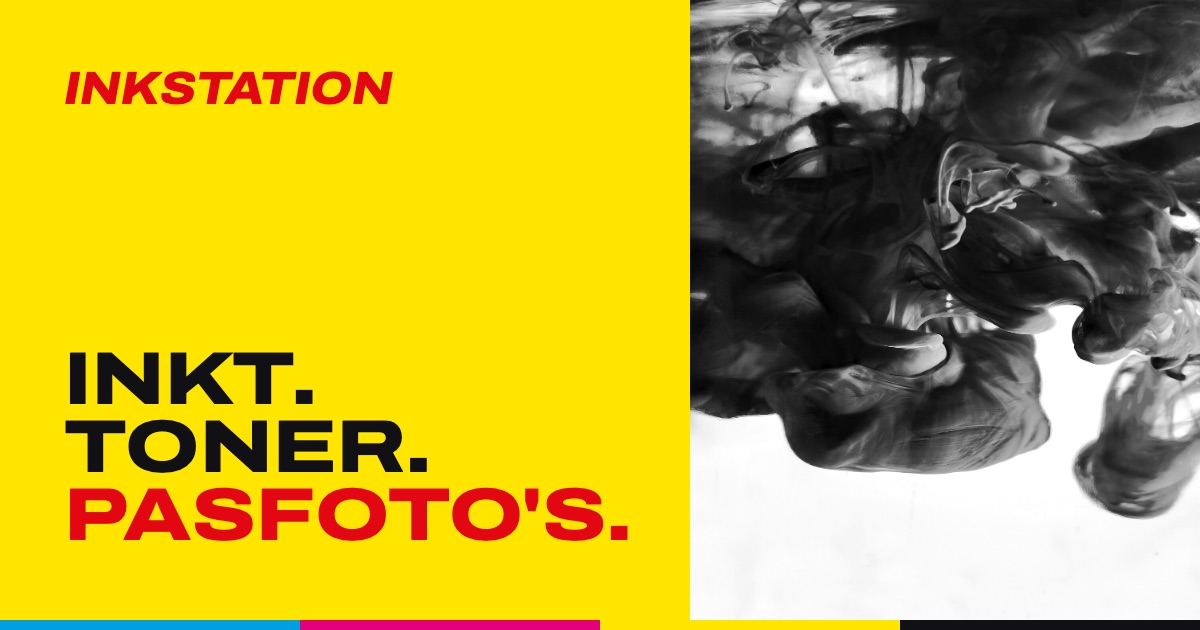
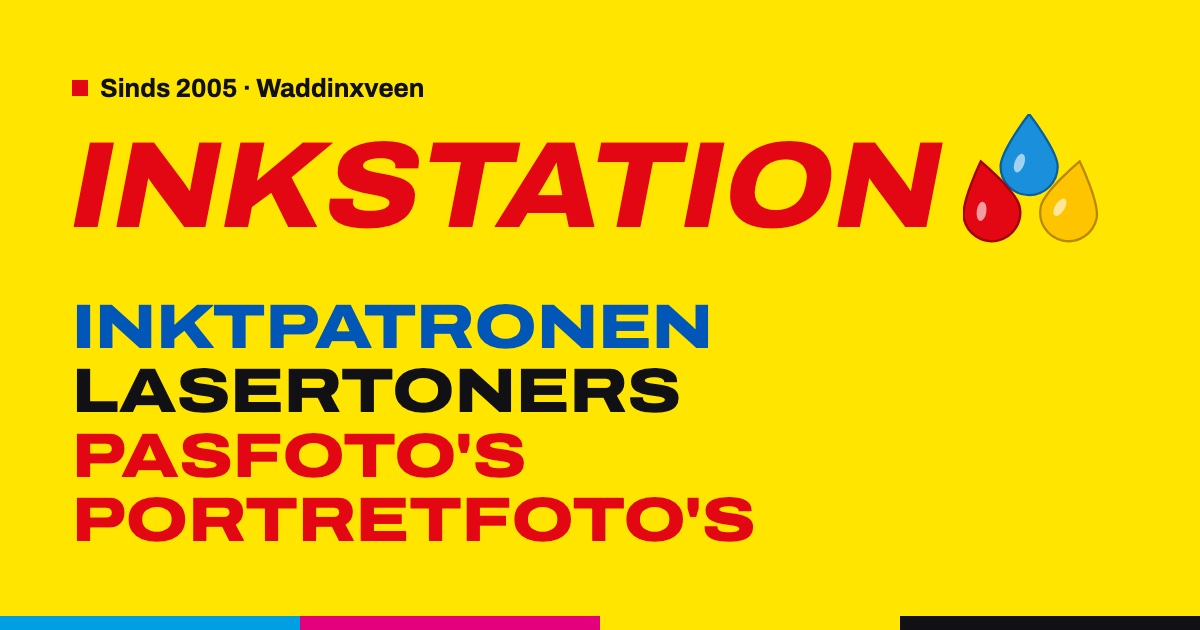
Inkstation: feedback Rens ronde 2 (grote naam met druppels, productgroepen in kleur, lasertoner, Canon-foto, rijbewijs, u-vorm)

diff --git a/inkstation/index.html b/inkstation/index.html
@@ -5,19 +5,19 @@
 <meta name="viewport" content="width=device-width, initial-scale=1">
 <!-- Concept preview: remove noindex, swap og:url/og:image to the real domain and add a canonical once this goes live on Inkstation's own domain -->
 <meta name="robots" content="noindex, nofollow">
-<title>Inkstation Waddinxveen · Inkt, toner, pasfoto's en meer</title>
+<title>Inkstation Waddinxveen · Inktpatronen, lasertoners, pasfoto's en meer</title>
 <meta name="description" content="Inktpatronen en lasertoners voor een scherpe prijs, refill van Canon en HP, pasfoto's en portretten, rijbewijs digitaal verlengen en video digitaliseren. Inkstation, sinds 2005 in de Passage in Waddinxveen.">
 <meta name="theme-color" content="#ffe500">
 <meta property="og:type" content="website">
 <meta property="og:locale" content="nl_NL">
 <meta property="og:site_name" content="Inkstation Waddinxveen">
-<meta property="og:title" content="Inkstation Waddinxveen · Inkt, toner en pasfoto's">
-<meta property="og:description" content="Scherp geprijsde inkt en toner, refill, pasfoto's en portretten, rijbewijs verlengen en video digitaliseren. Sinds 2005 in de Passage, Waddinxveen.">
+<meta property="og:title" content="Inkstation Waddinxveen · Inkt, lasertoners en pasfoto's">
+<meta property="og:description" content="Scherp geprijsde inkt en lasertoners, refill, pasfoto's en portretten, rijbewijs verlengen en video digitaliseren. Sinds 2005 in de Passage, Waddinxveen.">
 <meta property="og:url" content="https://itzjustme1.github.io/voorbeeldsites/inkstation/">
 <meta property="og:image" content="https://itzjustme1.github.io/voorbeeldsites/inkstation/og-image.jpg">
 <meta property="og:image:width" content="1200">
 <meta property="og:image:height" content="630">
-<meta property="og:image:alt" content="Inkstation: inkt, toner en pasfoto's, op het gele bord van de winkel.">
+<meta property="og:image:alt" content="Inkstation: inktpatronen, lasertoners, pasfoto's en portretfoto's, op het gele bord van de winkel.">
 <meta name="twitter:card" content="summary_large_image">
 <link rel="icon" href="favicon.svg" type="image/svg+xml">
 <link rel="apple-touch-icon" href="apple-touch-icon.png">
@@ -30,7 +30,7 @@
     document.documentElement.setAttribute("data-kleur", k || "huisstijl");
   })();
 </script>
-<link rel="stylesheet" href="styles.css?v=30">
+<link rel="stylesheet" href="styles.css?v=32">
 <script src="script.js?v=17" defer></script>
 <!-- Structured data so Google can show address, phone and opening hours. Hours as listed on Google Maps (7 Nov 2026). -->
 <script type="application/ld+json">
@@ -62,23 +62,27 @@
   Photos: Wikimedia Commons, stored in img/ as black-and-white WebP (grayscale + 10% contrast baked in, 800/1280/1800 wide).
   - Moving_Water_and_Ink_(Unsplash).jpg, Adrien Ledoux, CC0
   - Canon_EOS_R5_Mark_II_(front,_no_body_cap).jpg, D. Benjamin Miller, CC0
-  - Car_interior_during_the_daytime_(Unsplash).jpg, Pietro De Grandi, CC0
-  - HP_Inkjet_Black_Print_Cartridge_21.jpg, MarcoTangerino, public domain
+  - Canon_PG-810_CL-811_ink_cartridge.JPG, eFilm, CC BY-SA 4.0 (same Canon FINE cartridge type as the 545)
   - Super-8-mm-film-on-a-spool-02.jpg, CEphoto, Uwe Aranas, CC BY-SA 3.0
+  img/rijbewijs.svg is drawn for this site: a generic licence card, no real document or person.
 -->
 </head>
 <body>
 <a class="skip" href="#main">Naar de inhoud</a>
+<svg width="0" height="0" style="position:absolute" aria-hidden="true">
+  <!-- The three ink drops from the shop window (red, blue, yellow), drawn once and reused next to every INKSTATION -->
+  <symbol id="drops" viewBox="0 0 62 60"><g transform="translate(17 0) rotate(0 13 24) scale(2.6)"><path d="M5 0C5 0 0 6.4 0 9.2a5 5 0 0 0 10 0C10 6.4 5 0 5 0Z" fill="#1a8fdc" stroke="#0a5f9e" stroke-width=".4"/><ellipse cx="3.3" cy="8.6" rx=".85" ry="1.7" transform="rotate(20 3.3 8.6)" fill="#fff" opacity=".6"/></g><g transform="translate(0 21) rotate(-12 13 24) scale(2.6)"><path d="M5 0C5 0 0 6.4 0 9.2a5 5 0 0 0 10 0C10 6.4 5 0 5 0Z" fill="#e30613" stroke="#9e030c" stroke-width=".4"/><ellipse cx="3.3" cy="8.6" rx=".85" ry="1.7" transform="rotate(20 3.3 8.6)" fill="#fff" opacity=".6"/></g><g transform="translate(35 21) rotate(12 13 24) scale(2.6)"><path d="M5 0C5 0 0 6.4 0 9.2a5 5 0 0 0 10 0C10 6.4 5 0 5 0Z" fill="#ffc400" stroke="#b88600" stroke-width=".4"/><ellipse cx="3.3" cy="8.6" rx=".85" ry="1.7" transform="rotate(20 3.3 8.6)" fill="#fff" opacity=".6"/></g></symbol>
+</svg>
 
 <div class="concept" role="note">Voorbeeldontwerp door Valentijn de Grijff. Dit is nog niet de echte website van Inkstation.</div>
 
 <header class="site-head">
   <div class="wrap bar">
     <a class="logo" href="#top" aria-label="Inkstation, naar boven">
-      <span aria-hidden="true">INKSTATION</span>
+      <span aria-hidden="true">INKSTATION</span><svg class="drops" aria-hidden="true"><use href="#drops"/></svg>
     </a>
     <nav class="nav" id="nav" aria-label="Hoofdmenu">
-      <a href="#inkt">Inkt &amp; toner</a>
+      <a href="#inkt">Inkt &amp; lasertoner</a>
       <a href="#pasfoto">Pasfoto's</a>
       <a href="#rijbewijs">Rijbewijs</a>
       <a href="#video">Digitaliseren</a>
@@ -91,15 +95,20 @@
 
 <main id="main">
   <section class="hero" id="top" aria-labelledby="hero-title">
+    <!-- The name runs the full width, like the sign above the shop window -->
+    <div class="hero-sign">
+      <p class="where">Sinds 2005</p>
+      <h1 class="hero-mark" id="hero-title"><span class="mark-word">Inkstation</span><svg class="drops" aria-hidden="true"><use href="#drops"/></svg></h1>
+    </div>
     <div class="hero-grid">
       <div class="hero-copy">
-        <p class="where">Sinds 2005 · Passage 63 · Waddinxveen</p>
-        <h1 class="display" id="hero-title">
-          <span class="line" style="--i:0">Inkt.</span>
-          <span class="line" style="--i:1">Toner.</span>
-          <span class="line" style="--i:2">Pasfoto's.</span>
-        </h1>
-        <p class="lead">Inktpatronen en lasertoners voor een hele scherpe prijs, bijna altijd goedkoper dan de grote webshops. Verder: pasfoto's en portretten, je rijbewijs digitaal verlengen en oude video's digitaliseren. Al sinds 2005 hier in de Passage.</p>
+        <ul class="groups" aria-label="Wat u bij Inkstation vindt">
+          <li class="g-blue" style="--i:0"><a href="#inkt">Inktpatronen</a></li>
+          <li class="g-ink" style="--i:1"><a href="#inkt">Lasertoners</a></li>
+          <li class="g-red" style="--i:2"><a href="#pasfoto">Pasfoto's</a></li>
+          <li class="g-red" style="--i:3"><a href="#pasfoto">Portretfoto's</a></li>
+        </ul>
+        <p class="lead">Inktpatronen en lasertoners voor een hele scherpe prijs, vaak veel goedkoper dan de webshops. Mooie pasfoto's en portretfoto's, ook van baby's. En u kunt hier uw rijbewijs digitaal verlengen en oude video's laten digitaliseren.</p>
         <div class="actions">
           <a class="btn btn-accent" href="tel:+31182630949">Bel 0182 630 949</a>
           <a class="btn btn-line" href="#langskomen">Openingstijden &amp; route</a>
@@ -117,9 +126,9 @@
     <div class="cmyk" aria-hidden="true"><i></i><i></i><i></i><i></i></div>
   </section>
 
-  <nav class="index" aria-label="Wat je bij Inkstation regelt">
-    <a href="#inkt"><span class="index-n">01</span><b>Inkt &amp; toner</b><span>Scherp geprijsd, plus refill</span></a>
-    <a href="#pasfoto"><span class="index-n">02</span><b>Pasfoto's</b><span>En portretten, ook van baby's</span></a>
+  <nav class="index" aria-label="Wat u bij Inkstation regelt">
+    <a href="#inkt"><span class="index-n">01</span><b>Inkt &amp; lasertoner</b><span>Scherp geprijsd, plus refill</span></a>
+    <a href="#pasfoto"><span class="index-n">02</span><b>Pasfoto's</b><span>En portretfoto's, ook van baby's</span></a>
     <a href="#rijbewijs"><span class="index-n">03</span><b>Rijbewijs</b><span>Digitaal verlengen</span></a>
     <a href="#video"><span class="index-n">04</span><b>Digitali&shy;seren</b><span>Super 8, video, audio en dvd</span></a>
   </nav>
@@ -127,34 +136,34 @@
   <!-- Below the hero: one screen per service, built like the hero (copy + full-height panel), alternating sides. -->
   <section class="panel" id="inkt" aria-labelledby="inkt-title">
     <div class="panel-copy">
-      <p class="where">Inkt &amp; toner</p>
+      <p class="where">Inkt &amp; lasertoner</p>
       <h2 class="display panel-title" id="inkt-title" style="--em: 5.52"><span class="line">Inkt</span><span class="line">voor</span><span class="line">minder.</span></h2>
-      <p class="lead">Inktpatronen en lasertoners voor een hele scherpe prijs. Vooral setjes zijn hier vaak veel goedkoper dan bij webshops als 123inkt en Printabout. Gewoon in de winkel, zonder verzendkosten.</p>
+      <p class="lead">Inktpatronen en lasertoners voor een hele scherpe prijs. Vooral setjes zijn hier vaak veel goedkoper dan bij 123inkt, MediaMarkt en andere winkels. Gewoon in de winkel, zonder verzendkosten.</p>
       <ul class="facts">
-        <li><b>Inktpatronen</b>Los of als setje met 4 kleuren, voor Epson, Brother, Canon en HP. Neem je lege patroon mee, dan heb je zeker de goede.</li>
+        <li><b>Inktpatronen</b>Los of als setje met 4 kleuren, voor Epson, Brother, Canon en HP. Neem uw lege patroon mee, dan heeft u zeker de goede.</li>
         <li><b>Lasertoners</b>Zeer voordelig. Vraag vrijblijvend een prijsopgave: het verschil kan flink zijn.</li>
-        <li><b>Refill</b>Je lege Canon- of HP-patroon voordelig laten navullen.</li>
+        <li><b>Refill</b>Uw lege Canon- of HP-patroon voordelig laten navullen.</li>
       </ul>
       <div class="actions">
         <a class="btn btn-accent" href="tel:+31182630949">Bel 0182 630 949</a>
-        <a class="btn btn-line" href="mailto:inkstation.waddinxveen@gmail.com?subject=Prijsopgave%20toner">Prijsopgave mailen</a>
+        <a class="btn btn-line" href="mailto:inkstation.waddinxveen@gmail.com?subject=Prijsopgave%20lasertoner">Prijsopgave mailen</a>
       </div>
     </div>
     <figure class="panel-media">
-      <div class="ticket"><p class="ticket-big">Setjes vaak veel goedkoper dan bij 123inkt en Printabout</p><p class="rating">Inktpatronen en toners, gewoon in de winkel</p></div>
-      <img class="duotone" src="img/cartridge-1280.webp" srcset="img/cartridge-800.webp 800w, img/cartridge-1280.webp 1280w, img/cartridge-1800.webp 1800w" sizes="(max-width: 600px) 140vw, (max-width: 980px) 100vw, 60vw" width="1800" height="1098" alt="Twee zwarte inktpatronen." loading="lazy" decoding="async">
+      <div class="ticket"><p class="ticket-big">Setjes vaak veel goedkoper dan bij 123inkt of MediaMarkt</p><p class="rating">Inktpatronen en lasertoners, gewoon in de winkel</p></div>
+      <img class="duotone" src="img/canon-1280.webp" srcset="img/canon-800.webp 800w, img/canon-1280.webp 1280w, img/canon-1800.webp 1800w" sizes="(max-width: 600px) 140vw, (max-width: 980px) 100vw, 60vw" width="1800" height="1140" alt="Twee Canon-inktpatronen, zwart en kleur." loading="lazy" decoding="async">
     </figure>
   </section>
 
   <section class="panel panel-flip" id="pasfoto" aria-labelledby="pasfoto-title">
     <div class="panel-copy">
       <p class="where">Pasfoto's &amp; portretten</p>
-      <h2 class="display panel-title" id="pasfoto-title" style="--em: 7.58"><span class="line">Pasfoto's.</span><span class="line">Ook voor</span><span class="line">baby's.</span></h2>
-      <p class="lead">Voor de mooiste pasfoto's ben je hier aan het goede adres. Voor je paspoort, ID-kaart of rijbewijs, en net zo goed voor de baby. Rens neemt er de tijd voor.</p>
+      <h2 class="display panel-title" id="pasfoto-title" style="--em: 12.4"><span class="line">Pasfoto's en</span><span class="line">portretfoto's,</span><span class="line">ook voor baby's.</span></h2>
+      <p class="lead">Wij maken mooie, geschikte pasfoto's voor uw paspoort, ID-kaart en rijbewijs. En net zo goed voor de baby: we nemen er de tijd voor.</p>
       <ul class="facts">
         <li><b>Paspoort &amp; ID</b>Volgens de eisen van de overheid, 35 × 45 mm.</li>
         <li><b>Baby's &amp; kinderen</b>Gewoon welkom, ook als het even niet meezit.</li>
-        <li><b>Portretten</b>Een mooie foto voor thuis, of digitaal voor LinkedIn en je cv.</li>
+        <li><b>Portretfoto's</b>Naast ID-foto's maken we ook mooie portretfoto's van u en/of uw kinderen. Voor thuis, of digitaal voor bijvoorbeeld LinkedIn.</li>
       </ul>
       <p class="offer"><b>20 jaar Inkstation:</b> een portretfoto, ingelijst, voor maar €10. <span>Tijdelijke actie.</span></p>
       <div class="actions">
@@ -181,21 +190,21 @@
   <section class="panel" id="rijbewijs" aria-labelledby="rijbewijs-title">
     <div class="panel-copy">
       <p class="where">Rijbewijs verlengen</p>
-      <h2 class="display panel-title" id="rijbewijs-title" style="--em: 8.42"><span class="line">Rijbewijs</span><span class="line">verlengen.</span><span class="line">Begin hier.</span></h2>
-      <p class="lead">Je rijbewijs veilig digitaal verlengen doen we al jaren. Je foto en handtekening gaan digitaal naar de RDW: geen losse pasfoto en geen eerste afspraak op het gemeentehuis.</p>
+      <h2 class="display panel-title" id="rijbewijs-title" style="--em: 8.75"><span class="line">Rijbewijs</span><span class="line">verlengen.</span><span class="line">Begint hier.</span></h2>
+      <p class="lead">Uw rijbewijs veilig digitaal verlengen doen we al jaren. Uw foto en handtekening gaan digitaal naar de RDW: geen losse pasfoto nodig en geen extra afspraak op het gemeentehuis.</p>
       <ol class="steps">
-        <li><b>Foto en handtekening</b>Rens maakt je pasfoto en neemt je handtekening digitaal af. Met jouw toestemming gaan ze direct naar de RDW.</li>
-        <li><b>Online aanvragen</b>Je krijgt een aanvraagcode per mail of sms en verlengt online op rdw.nl.</li>
-        <li><b>Ophalen</b>Na ongeveer twee werkdagen haal je je nieuwe rijbewijs op bij de gemeente.</li>
+        <li><b>Foto en handtekening</b>Wij maken uw pasfoto en nemen uw handtekening digitaal af. Met uw toestemming gaan ze direct naar de RDW.</li>
+        <li><b>Online aanvragen</b>U krijgt een aanvraagcode per mail of sms en verlengt online op rdw.nl.</li>
+        <li><b>Ophalen</b>Na ongeveer twee werkdagen haalt u uw nieuwe rijbewijs op bij de gemeente.</li>
       </ol>
       <div class="actions">
         <a class="btn btn-accent" href="tel:+31182630949">Bel 0182 630 949</a>
         <a class="btn btn-line" href="https://www.rdw.nl/het-rijbewijs/aanvragen-of-verlengen/rijbewijs-online-verlengen" rel="noopener" target="_blank">Hoe het werkt (RDW)</a>
       </div>
     </div>
-    <figure class="panel-media">
+    <figure class="panel-media panel-art">
       <div class="ticket"><p class="ticket-big">Klaar in ongeveer twee werkdagen</p><p class="rating">Ophalen bij de gemeente</p></div>
-      <img class="duotone duotone-wheel" src="img/wheel-1280.webp" srcset="img/wheel-800.webp 800w, img/wheel-1280.webp 1280w, img/wheel-1800.webp 1800w" sizes="(max-width: 600px) 140vw, (max-width: 980px) 100vw, 60vw" width="1800" height="1200" alt="Het stuur van een auto." loading="lazy" decoding="async">
+      <img class="art" src="img/rijbewijs.svg" width="1000" height="720" alt="Een rijbewijs." loading="lazy" decoding="async">
     </figure>
   </section>
 
@@ -203,11 +212,11 @@
     <div class="panel-copy">
       <p class="where">Digitaliseren</p>
       <h2 class="display panel-title" id="video-title" style="--em: 5.84"><span class="line">Oude</span><span class="line">video's?</span><span class="line">Op USB.</span></h2>
-      <p class="lead">Super 8-films, videobanden, audio en dvd's: Scanpaleis zet ze over op USB of dvd. Je levert alles hier in de winkel in en krijgt het daarna netjes thuisbezorgd.</p>
+      <p class="lead">Super 8-films, videobanden, audio en dvd's: Scanpaleis zet ze over op USB of dvd. U levert alles hier in de winkel in en krijgt het daarna netjes thuisbezorgd.</p>
       <ol class="steps">
-        <li><b>Inleveren</b>Breng je films, banden of audio naar Inkstation in de Passage.</li>
+        <li><b>Inleveren</b>Breng uw films, banden of audio naar Inkstation in de Passage.</li>
         <li><b>Digitaliseren</b>Scanpaleis zet alles over naar USB of dvd.</li>
-        <li><b>Thuisbezorgd</b>Daarna krijg je alles netjes thuis bezorgd.</li>
+        <li><b>Thuisbezorgd</b>Daarna krijgt u alles netjes thuis bezorgd.</li>
       </ol>
       <div class="actions">
         <a class="btn btn-accent" href="https://scanpaleis.nl/media/video-digitaliseren/" rel="noopener" target="_blank">Prijzen bij Scanpaleis</a>
@@ -280,11 +289,11 @@
   <div class="cmyk" aria-hidden="true"><i></i><i></i><i></i><i></i></div>
   <div class="wrap foot">
     <a class="logo logo-tile" href="#top" aria-label="Inkstation, naar boven">
-      <span aria-hidden="true">INKSTATION</span>
+      <span aria-hidden="true">INKSTATION</span><svg class="drops" aria-hidden="true"><use href="#drops"/></svg>
     </a>
     <div class="foot-meta">
       <p>Inkstation, sinds 2005 · Passage 63 · 2741 HB Waddinxveen · KvK 24377836</p>
-      <p>Foto's via Wikimedia Commons: Adrien Ledoux (CC0), D. Benjamin Miller (CC0), Pietro De Grandi (CC0), MarcoTangerino (publiek domein), CEphoto, Uwe Aranas (CC BY-SA 3.0). Kaart © OpenStreetMap-bijdragers.</p>
+      <p>Foto's via Wikimedia Commons: Adrien Ledoux (CC0), D. Benjamin Miller (CC0), eFilm (CC BY-SA 4.0), CEphoto, Uwe Aranas (CC BY-SA 3.0). Kaart © OpenStreetMap-bijdragers.</p>
       <p>Voorbeeldontwerp door Valentijn de Grijff</p>
     </div>
   </div>

diff --git a/inkstation/styles.css b/inkstation/styles.css
@@ -54,8 +54,8 @@
   --fs-lead: 20px;
   --fs-h3: 24px;
   --fs-h2: clamp(40px, 6.2vw, 88px);
-  /* H1 is sized to its column: "PASFOTO'S." is 7.6em wide at this width, so 13cqi always fits. */
-  --fs-h1: clamp(40px, 13cqi, 116px);
+  /* Blue for "Inktpatronen" in the hero, deep enough to read on the yellow (5.6:1) */
+  --blue: #0057b8;
 
   --wrap: 1240px;
   --gutter: 32px;
@@ -119,10 +119,12 @@ h3 { margin: 0 0 8px; font-size: var(--fs-h3); line-height: 1.2; font-weight: 70
 .text-link:hover { color: var(--accent-text); }
 
 /* Wordmark: INKSTATION in red bold italic, like the shop sign */
-.logo { display: inline-flex; align-items: baseline; color: var(--logo); text-decoration: none; font-weight: 800; font-stretch: 112%; font-size: 26px; letter-spacing: -.005em; line-height: 1; }
+.logo { display: inline-flex; align-items: center; gap: .2em; color: var(--logo); text-decoration: none; font-weight: 800; font-stretch: 112%; font-size: 26px; letter-spacing: -.005em; line-height: 1; }
 /* The slant is a skew of the upright font, so no separate italic file is needed and every browser draws it the same */
 .logo span { display: inline-block; transform: skewX(-11deg); }
 .logo-tile { background: var(--brand); padding: .4em .6em; }
+/* The shop window's three ink drops (red, blue, yellow) sit right after the name, a little taller than the capitals */
+.drops { flex: none; width: 1.1em; height: 1.06em; margin-top: -.12em; }
 
 /* Header */
 .site-head { position: sticky; top: 0; z-index: 20; background: var(--brand); box-shadow: 0 1px 0 rgba(17, 17, 20, .12); }
@@ -136,22 +138,41 @@ h3 { margin: 0 0 8px; font-size: var(--fs-h3); line-height: 1.2; font-weight: 70
 
 /* Hero: copy on paper, the photo panel bleeds to the right edge */
 .hero { position: relative; background: var(--brand); }
-.hero-grid { display: grid; grid-template-columns: minmax(0, 7fr) minmax(0, 5fr); min-height: min(820px, calc(100dvh - 115px)); }
+.hero-sign {
+  container-type: inline-size;
+  padding: 56px max(var(--gutter), calc((100vw - var(--wrap)) / 2 + var(--gutter))) 40px;
+}
+.hero-sign .where { margin-bottom: 16px; }
+.hero-grid { display: grid; grid-template-columns: minmax(0, 7fr) minmax(0, 5fr); min-height: 520px; }
 .hero-copy {
   container-type: inline-size;
   display: flex; flex-direction: column; justify-content: center;
-  padding: 88px 56px 96px max(var(--gutter), calc((100vw - var(--wrap)) / 2 + var(--gutter)));
+  padding: 40px 56px 72px max(var(--gutter), calc((100vw - var(--wrap)) / 2 + var(--gutter)));
 }
 .where { font-size: var(--fs-ui); font-weight: 700; margin-bottom: 28px; display: flex; align-items: center; gap: 10px; }
 .where::before { content: ""; width: 12px; height: 12px; background: var(--accent); }
-.hero h1 { font-size: var(--fs-h1); margin-bottom: 36px; }
-.hero h1 .line { display: block; }
-/* Accent words: coloured, plus a highlighter stroke that only shows when --accent-mark is set */
-.hero h1 .line:last-child, .soft {
-  color: var(--accent-text);
-  text-decoration: underline; text-decoration-color: var(--accent-mark); text-decoration-thickness: .3em;
-  text-underline-offset: -.14em; text-decoration-skip-ink: none;
+/* Hero headline is the shop name itself, across the full width (Rens: "mag echt wel kapitaler").
+   "INKSTATION" plus the drops is 8.57em wide (measured), so 97cqi / 8.7 always fits. */
+.hero-mark {
+  display: flex; align-items: center; gap: .16em; margin: 0;
+  font-size: clamp(36px, calc(97cqi / 8.7), 176px); font-weight: 800; font-stretch: 112%;
+  line-height: 1; letter-spacing: -.005em; text-transform: uppercase; color: var(--logo);
 }
+.mark-word { display: inline-block; transform: skewX(-11deg); }
+.hero-mark .drops { width: 1.12em; height: 1.08em; }
+/* Under the name, the four product groups in the colours Rens asked for: blue, black, red, red */
+.groups {
+  list-style: none; margin: 0 0 36px; padding: 0;
+  /* "PORTRETFOTO'S" is the longest line at 10.9em */
+  font-size: clamp(24px, calc(97cqi / 11.2), 56px); font-weight: 800; font-stretch: 125%;
+  line-height: 1; letter-spacing: -.01em; text-transform: uppercase;
+}
+.groups li + li { margin-top: .08em; }
+.groups a { text-decoration: underline; text-decoration-color: transparent; text-decoration-thickness: .08em; text-underline-offset: .12em; transition: text-decoration-color var(--dur) var(--ease); }
+.groups a:hover { text-decoration-color: currentColor; }
+.g-blue { color: var(--blue); }
+.g-ink { color: var(--ink); }
+.g-red { color: var(--accent-text); }
 .hero .lead { margin-bottom: 36px; color: var(--ink-2); }
 
 .hero-panel { position: relative; margin: 0; background: var(--paper); overflow: hidden; }
@@ -186,7 +207,7 @@ h3 { margin: 0 0 8px; font-size: var(--fs-h3); line-height: 1.2; font-weight: 70
 
 /* Signature moment: each headline line is "printed" left to right, once, on load */
 @media (prefers-reduced-motion: no-preference) {
-  .hero h1 .line { animation: print-pass .7s cubic-bezier(.215, .61, .355, 1) both; animation-delay: calc(120ms + var(--i) * 120ms); }
+  .groups li { animation: print-pass .7s cubic-bezier(.215, .61, .355, 1) both; animation-delay: calc(120ms + var(--i) * 120ms); }
 }
 @keyframes print-pass {
   from { clip-path: inset(-10% 100% -10% 0); }
@@ -213,8 +234,10 @@ h2.panel-title { font-size: clamp(28px, calc(97cqi / var(--em, 7.6)), 132px); ma
 }
 .panel .lead { color: var(--ink-2); margin-bottom: 36px; }
 .panel-media { position: relative; margin: 0; background: var(--paper); overflow: hidden; }
-.duotone-wheel { object-position: 35% 50%; }
-#inkt .duotone { object-position: 24% 50%; }
+#inkt .duotone { object-position: 56% 50%; }
+/* Rijbewijs: a drawn licence card instead of a photo, centred on the tint */
+.panel-art { background: var(--tint); display: grid; place-items: center; }
+.art { width: min(84%, 620px); height: auto; margin-bottom: 120px; }
 
 /* Services index right under the hero: four jump links on ink */
 .index {
@@ -370,7 +393,8 @@ html[data-kleur="kobalt"] {
   .nav a { padding: 18px 0; border-bottom: 1px solid var(--line); }
   .nav a:last-child { color: var(--accent-text); text-decoration: underline; text-decoration-color: var(--accent-mark); text-decoration-thickness: .3em; text-underline-offset: -.14em; }
   .hero-grid { grid-template-columns: minmax(0, 1fr); min-height: 0; }
-  .hero-copy { padding: 64px var(--gutter) 64px; }
+  .hero-sign { padding: 48px var(--gutter) 24px; }
+  .hero-copy { padding: 24px var(--gutter) 64px; }
   .hero-panel { min-height: 420px; }
   .panel, .panel-flip { grid-template-columns: minmax(0, 1fr); min-height: 0; }
   .panel-flip .panel-media { order: 0; }
@@ -391,9 +415,12 @@ html[data-kleur="kobalt"] {
   .call-long { display: none; }
   .call-short { display: inline; }
   .btn-call { padding: 0 18px; }
-  .hero-copy { padding: 44px var(--gutter) 48px; }
+  .hero-sign { padding: 36px var(--gutter) 16px; }
+  /* Phones: keep the name clearly bigger than the product groups under it */
+  .groups { font-size: 24px; }
+  .hero-copy { padding: 16px var(--gutter) 48px; }
   .where { margin-bottom: 20px; }
-  .hero h1 { margin-bottom: 24px; }
+  .groups { margin-bottom: 24px; }
   .hero .lead { margin-bottom: 28px; }
   .actions { flex-direction: column; }
   .actions .btn { width: 100%; }
@@ -414,6 +441,9 @@ html[data-kleur="kobalt"] {
   .hero-panel .duotone, .panel-media > .duotone { position: relative; inset: auto; aspect-ratio: 4 / 3; height: auto; }
   .hero-panel .ticket, .panel-media:has(> .duotone) .ticket { order: 1; position: static; max-width: none; padding: 16px var(--gutter) 20px; background: var(--tint); }
   #inkt .duotone { aspect-ratio: 16 / 10; object-position: center; }
+  .panel-art { display: flex; flex-direction: column; min-height: 0; }
+  .panel-art .art { width: 88%; margin: 28px auto; }
+  .panel-art .ticket { order: 1; position: static; max-width: none; padding: 16px var(--gutter) 20px; background: var(--paper); }
   #video .duotone { object-position: 50% 28%; }
   .ticket-spec { display: grid; grid-template-columns: 84px minmax(0, 1fr); align-items: center; gap: 16px; }
   .ticket-spec svg { margin: 0; }
@@ -424,5 +454,5 @@ html[data-kleur="kobalt"] {
 }
 @media (prefers-reduced-motion: reduce) {
   html { scroll-behavior: auto; }
-  .btn, .nav a, .text-link, .score-link, .index b, .sticker { transition: none; }
+  .btn, .nav a, .text-link, .score-link, .index b, .sticker, .groups a { transition: none; }
 }
